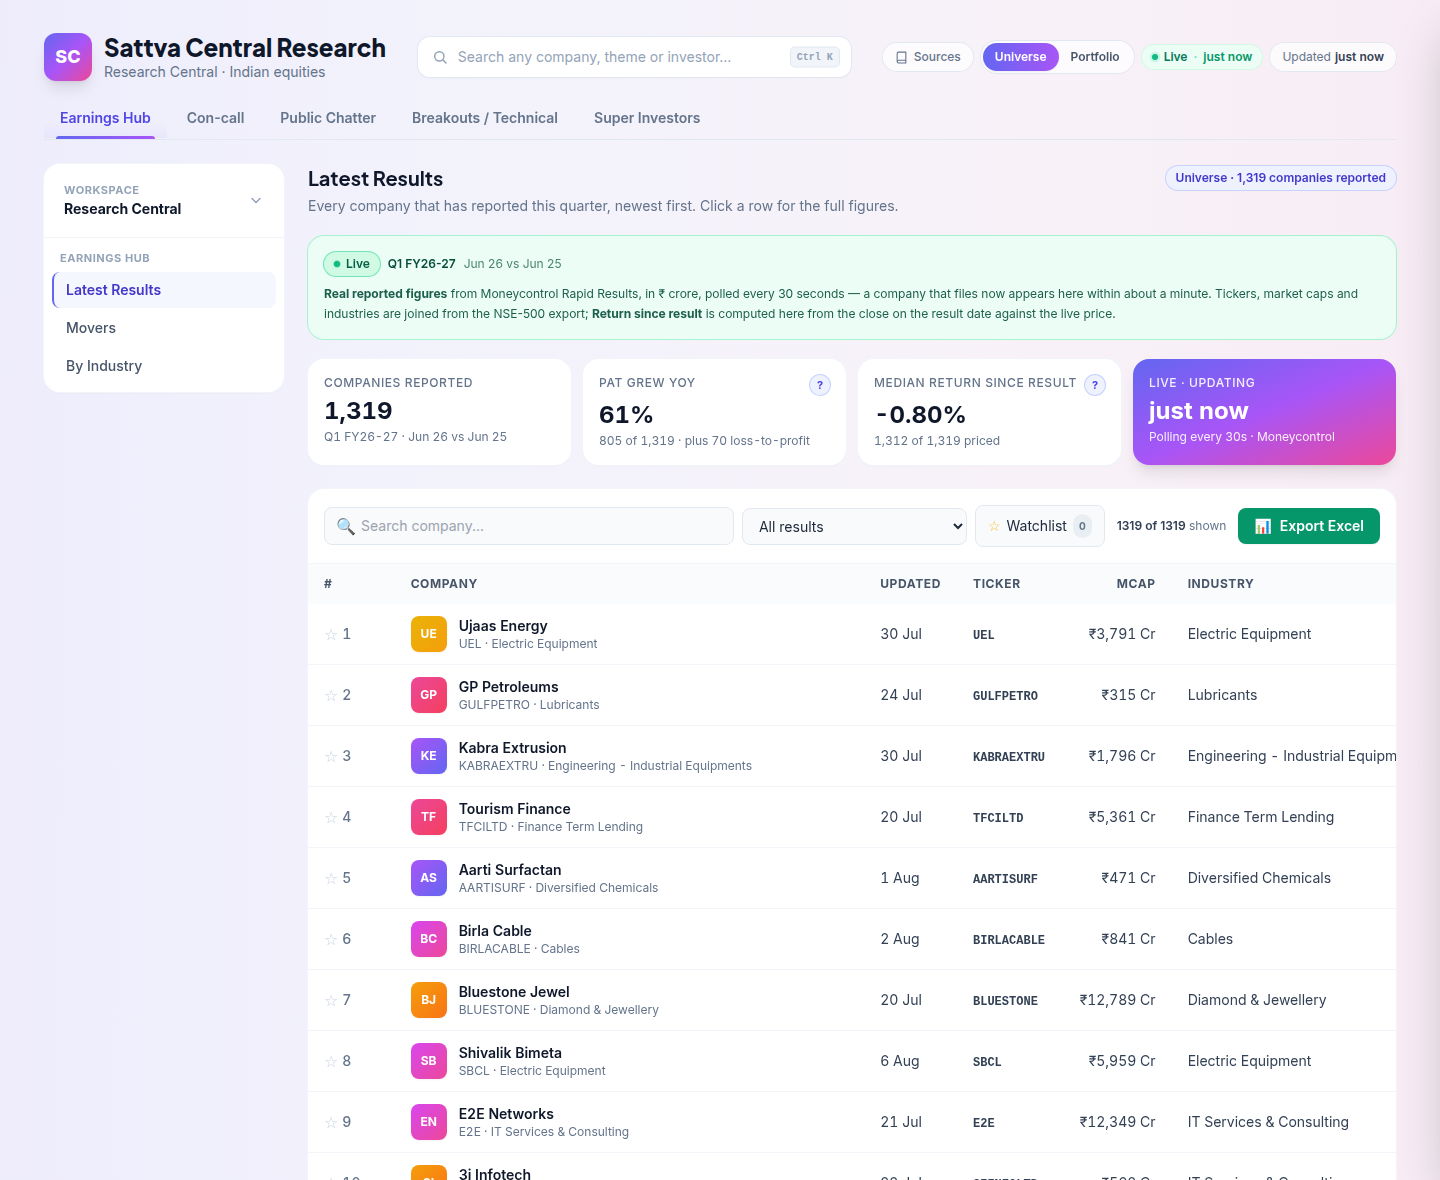
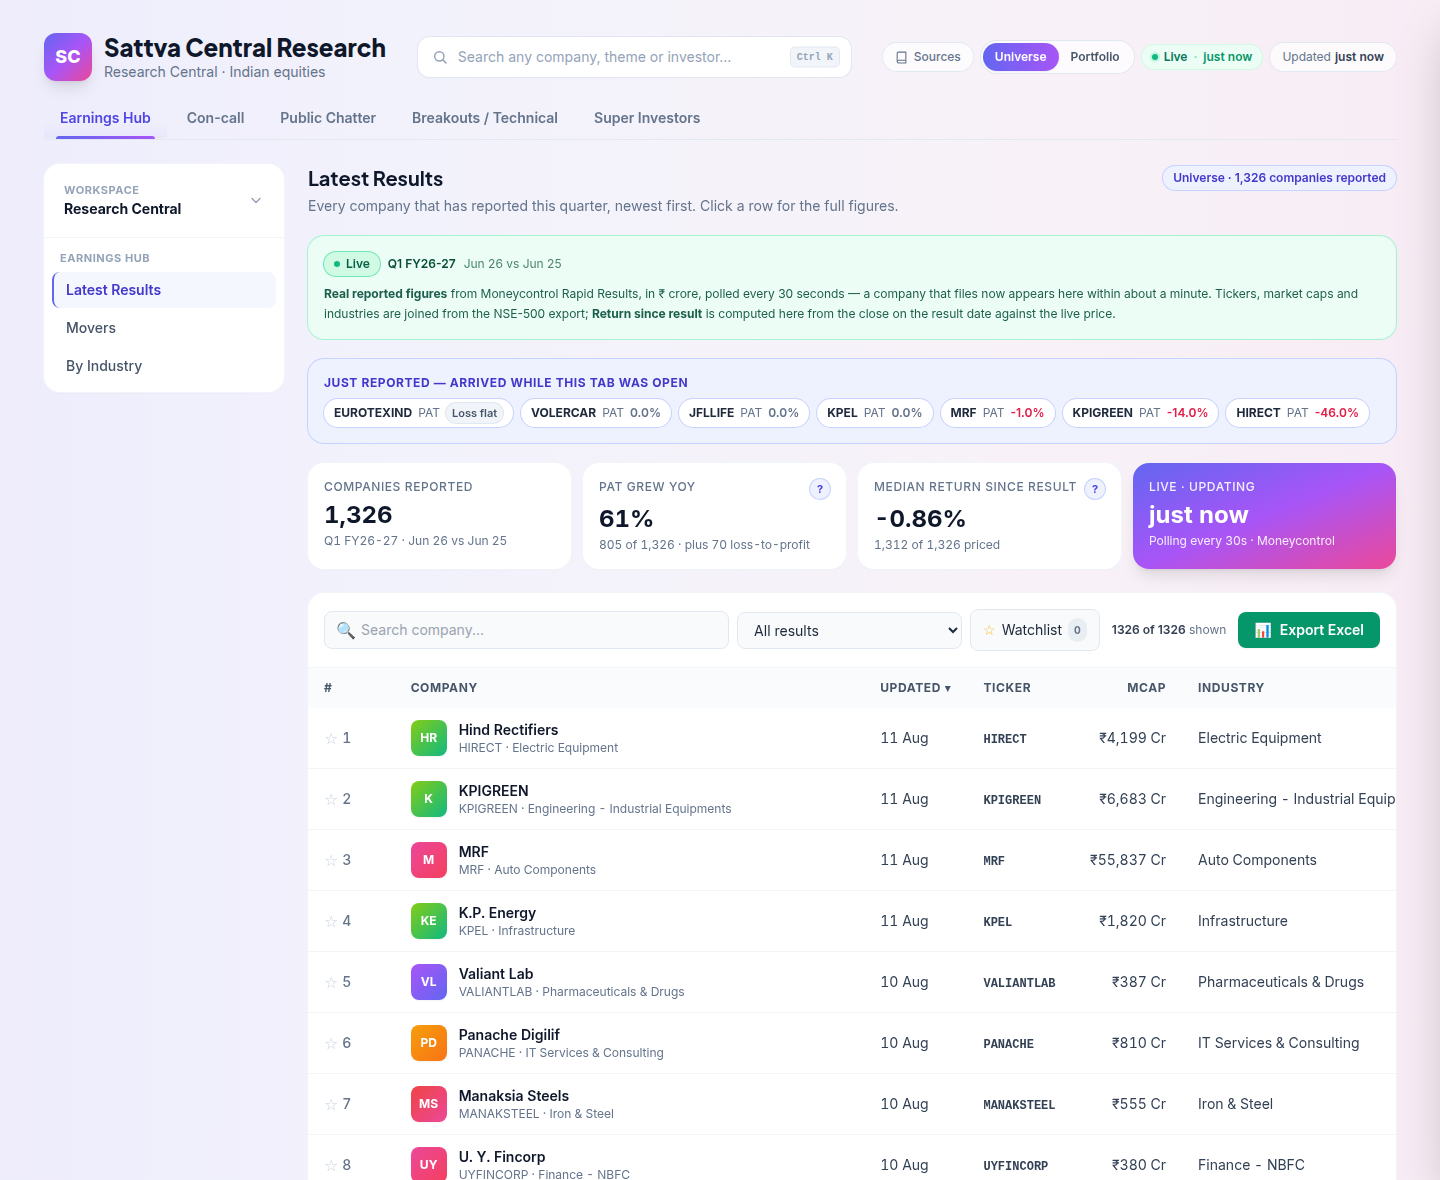
Sort Latest Results by date, and resolve new filers on the fly
Reported: the newest companies on Moneycontrol were not the newest companies
on our table. The data was identical — MRF, KPIGREEN, Hind Rectifiers and
K.P. Energy were all present with figures matching Moneycontrol to the rupee
(MRF revenue 8,416 vs 7,676 = +9%, PAT 495 vs 500 = -1%). Three real bugs
behind it.

1. The table defaulted to sorting by Return Since Result, matching the
   original reference screenshot. But a company that reported TODAY has no
   cached result-day close yet, so its return is null and it sorted to the
   bottom: the four newest filings sat at positions 1313-1316 of 1326. A view
   called Latest Results now defaults to newest-first, which is also what
   Moneycontrol does. Return is still one header click away.

2. Those same rows showed "no ticker", with no market cap or industry — the
   committed map cannot know about a company that reported an hour ago, so
   the freshest rows were also the emptiest. The Worker now resolves unknown
   company codes against the price feed per cache window (bounded at 40) and
   merges them in. Verified: 7 unknown codes, 7 resolved, 0 failures.

3. Eurotex reported a net loss of 1 Cr against a prior loss of 1 Cr, and the
   classifier rendered it "Loss up 0%" — claiming a deterioration that did not
   happen, because it treated "not narrowed" as "widened". Equal losses are now
   their own case and render as "Loss flat".

verify-ui.mjs 199/199, arrivals unit test 14/14, zero console errors.
[…]

diff --git a/worker/index.js b/worker/index.js
@@ -8,7 +8,7 @@
 //
 // Neither writes anything back to the repo; both are read-through overlays on committed data.
 
-import { fetchLatestResults, freshnessOf } from './mc.mjs';
+import { fetchLatestResults, freshnessOf, resolveMissing, applyIdentity } from './mc.mjs';
 
 const MUNSHOT_API = 'https://fastapi.muns.io/stock-data';
 const REQ_TIMEOUT_MS = 8000;
@@ -83,7 +83,22 @@ async function handleEarnings(request, env, ctx) {
   try {
     const { rows, meta } = await fetchLatestResults({ limit: 5000, subType, category });
     if (!rows.length) throw new Error('upstream returned no rows');
-    payload = { ok: true, degraded: null, ...freshnessOf(rows), meta, rows };
+
+    // Identity from the committed map, plus on-the-fly resolution for anything it has never seen.
+    // A company that reports today is not in a map built yesterday, and those are precisely the
+    // rows at the top of a live results table — shipping them with no ticker, market cap or
+    // industry would make the freshest data the least useful data on the page.
+    const known = (await loadTickerMap(env, request)) || {};
+    const { resolved, attempted, failed } = await resolveMissing(rows, known, { limit: 40 });
+    const merged = Object.keys(resolved).length ? { ...known, ...resolved } : known;
+
+    payload = {
+      ok: true,
+      degraded: null,
+      ...freshnessOf(rows),
+      meta: { ...meta, resolvedOnTheFly: attempted, unresolved: failed },
+      rows: applyIdentity(rows, merged),
+    };
   } catch (err) {
     // Upstream is down, rate-limited, or has changed shape. Serve the committed snapshot and
     // label it, rather than an empty feed that would read as "no results reported".
@@ -108,6 +123,17 @@ async function handleEarnings(request, env, ctx) {
   // Store a clone; the response body can only be read once.
   ctx?.waitUntil?.(cache.put(cacheKey, res.clone()));
   return res;
+}
+
+/** The committed scID -> identity map, read through the ASSETS binding. */
+async function loadTickerMap(env, request) {
+  try {
+    const res = await env.ASSETS.fetch(new Request(new URL('/data/mc-ticker-map.json', request.url)));
+    if (!res.ok) return null;
+    return (await res.json())?.map || null;
+  } catch {
+    return null;
+  }
 }
 
 /** The committed last-good file, read through the ASSETS binding. Null if it isn't there. */

diff --git a/public/js/tabs/earnings-hub.js b/public/js/tabs/earnings-hub.js
@@ -126,6 +126,10 @@ function changeCell(m) {
     const cls = m.pct > 0 ? 'text-emerald-600' : m.pct < 0 ? 'text-rose-600' : 'text-slate-500';
     return `<span class="font-semibold ${cls}">${escapeHtml(formatPct(m.pct))}</span>`;
   }
+  if (m.kind === 'loss-flat') {
+    return `<span class="inline-flex items-center rounded-full bg-slate-100 px-1.5 py-0.5 text-[11px] font-semibold text-slate-600 ring-1 ring-slate-200"
+       title="Loss in both periods and unchanged: ${escapeHtml(formatNumber(m.prior))} Cr → ${escapeHtml(formatNumber(m.current))} Cr.">Loss flat</span>`;
+  }
   if (m.kind === 'loss-narrowed' || m.kind === 'loss-widened') {
     const narrowed = m.kind === 'loss-narrowed';
     const cls = narrowed ? 'bg-emerald-50 text-emerald-700 ring-emerald-200' : 'bg-rose-50 text-rose-700 ring-rose-200';
@@ -151,6 +155,7 @@ function changeSortValue(m) {
   if (m.kind === 'normal') return m.pct ?? -Infinity;
   if (m.kind === 'turnaround') return 1e6; // best possible outcome, sorts above any percentage
   if (m.kind === 'slipped-to-loss') return -1e6;
+  if (m.kind === 'loss-flat') return -5e5;
   if (m.kind === 'loss-narrowed') return (m.pct ?? 0) - 5e5; // improving, but still loss-making
   if (m.kind === 'loss-widened') return -5e5 - Math.abs(m.pct ?? 0);
   return -Infinity;
@@ -334,7 +339,12 @@ function renderLatest(ctx) {
       },
     },
     searchable: (r) => `${r.company} ${r.shortName} ${r.ticker || ''} ${r.industry || ''} ${r.sectorSlug || ''}`,
-    initialSort: { key: 'Return Since Result', dir: 'desc' },
+    // Newest first. The view is called Latest Results and Moneycontrol's own page defaults the
+    // same way, so anything else is a surprise. It used to default to Return Since Result, which
+    // had a nastier consequence than mere preference: a company that reported TODAY has no cached
+    // result-day close yet, so its return is null and it sorted to the very bottom — the four
+    // newest filings landed at positions 1313-1316 of 1326. Return is still one header click away.
+    initialSort: { key: 'Updated', dir: 'desc' },
     onRowClick: (r) => drillResult(r, m),
     exportName: 'sattva-earnings',
     onExport: (visible) => exportResults(visible, m),

diff --git a/public/js/data/earnings-live.js b/public/js/data/earnings-live.js
@@ -154,8 +154,9 @@ function joinRow(raw) {
   // instead of correct whenever the map was last built. Falls back to universe.json (a curated
   // but hand-refreshed export) and then to the count-times-price captured at build time.
   //   shares × price is in rupees; ÷ 1e7 gives crore.
-  const liveCap = mapped?.shares && raw.ltp ? (mapped.shares * raw.ltp) / 1e7 : null;
-  const marketCap = liveCap ?? uni?.marketCap ?? mapped?.mktCapAtBuild ?? null;
+  const shares = raw.shares ?? mapped?.shares ?? null;
+  const liveCap = shares && raw.ltp ? (shares * raw.ltp) / 1e7 : null;
+  const marketCap = liveCap ?? uni?.marketCap ?? raw.mktCapAtBuild ?? mapped?.mktCapAtBuild ?? null;
 
   // Return since result: base is the close on the result day (immutable, cached); the current
   // price is Moneycontrol's live `ltp`. So this figure moves on every tick, which is the point.
@@ -175,7 +176,7 @@ function joinRow(raw) {
     marketCapIsLive: liveCap != null,
     // universe.json's industry is the curated one and wins where it exists; Moneycontrol's
     // subsector fills in the ~69% of reporters that sit outside the NSE-500 export.
-    industry: uni?.industry || uni?.sector || mapped?.industry || null,
+    industry: uni?.industry || uni?.sector || raw.industry || mapped?.industry || null,
     inUniverse: !!uni,
     basePrice: base,
     basePricedOn: baseEntry?.pricedOn ?? null,

diff --git a/docs/DATA-CONTRACTS.md b/docs/DATA-CONTRACTS.md
@@ -501,6 +501,13 @@ like. Every metric is therefore classified:
 The UI renders a signed percentage only for `normal`; everything else is a labelled pill. Getting
 this wrong would paint Wockhardt's loss-to-profit recovery as a green "+199%" growth rate.
 
+**Identity is resolved on the fly for companies the map has never seen.** A company that reports
+today is by definition not in a map built yesterday — and those are exactly the rows at the top of
+a live results table. The Worker resolves up to 40 unknown codes per cache window against the price
+feed and merges them in, so the freshest rows arrive with a ticker, an industry and a share count
+rather than three dashes. `meta.resolvedOnTheFly` reports how many. The scheduled job still
+maintains the durable map; this only covers the gap between filings and the next run.
+
 **Degraded mode** — if the upstream fails or changes shape, the Worker serves the committed
 snapshot with `degraded` set to a human-readable reason, and the tab swaps its green "Live" ribbon
 for an amber "Showing the last snapshot" one. An empty feed is never served as success, because

diff --git a/docs/HANDOFF.md b/docs/HANDOFF.md
@@ -228,6 +228,11 @@ a loss becoming a profit. `classifyChange()` tags every metric, `pct` is null wh
 percentage exists, and the UI renders a labelled pill. Same failure mode as the `op_vs_pat` rule —
 check every growth figure for it.
 
+**Identity for brand-new filers is resolved live.** The committed map cannot know about a company
+that reported an hour ago, and those rows sit at the top of the table. The Worker resolves unknown
+codes against the price feed per cache window (bounded at 40) and merges them, so the newest rows
+are not also the emptiest ones.
+
 **Market cap is computed, not stored.** The ticker map holds the share count; the browser multiplies
 by the current price, so the column is correct now rather than as-of the last refresh.
 
